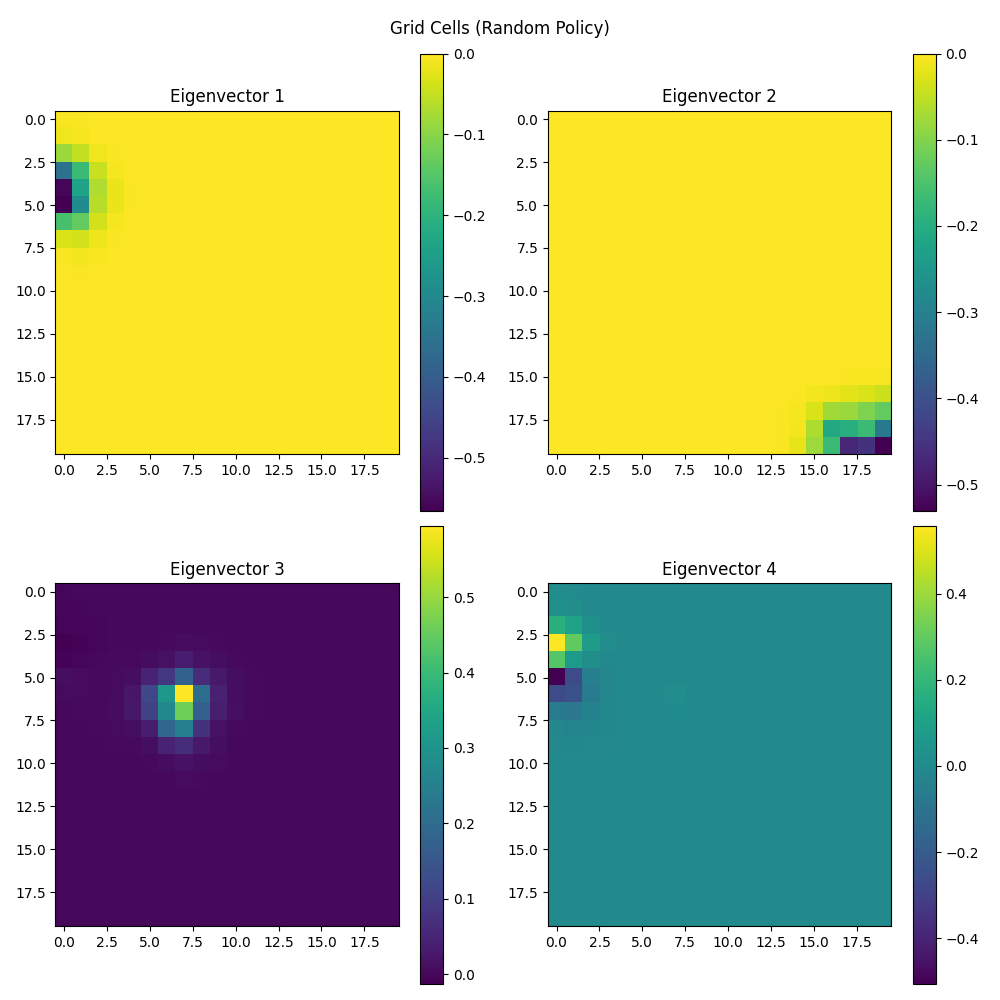
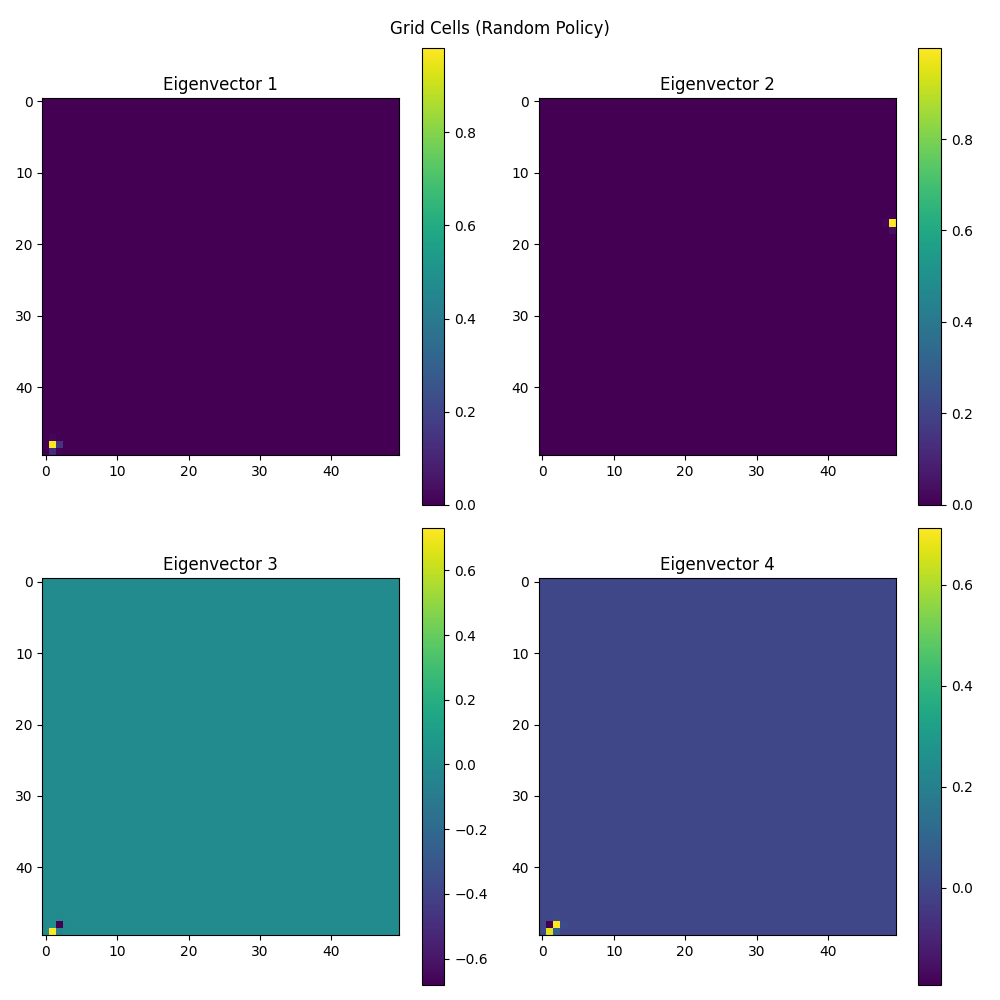
newest

diff --git a/SRGoalSlice.py b/SRGoalSlice.py
@@ -11,7 +11,7 @@ from sklearn.decomposition import PCA #For grid cell plotting
 cmap = plt.cm.viridis
 cmap.set_bad(color='white')
 
-grid_size = 50
+grid_size = 20
 pattern = "empty"
 env = SimpleGrid(grid_size, block_pattern=pattern, obs_mode="index")
 env.reset(agent_pos=[0, 0], goal_pos=[0, grid_size - 1])
@@ -365,7 +365,7 @@ def get_goal_sequence(total_episodes, goal_size):
 # parameters for training
 train_episode_length = 60
 test_episode_length = 60
-episodes = 1000000
+episodes = 10000
 gamma = 0.8
 lr = 0.01
 
@@ -416,7 +416,7 @@ remaining_episodes = episodes % len(goals_with_targets)
 np.random.shuffle(goals_with_targets)
 
 # Training loop for random policy
-for episode in range(episodes):
+for episode in tqdm(range(episodes), desc="Training with Random Policy"):
     goal_index = goals_with_targets[episode % len(goals_with_targets)]
     
     epsilon = 1  # Set epsilon to 1 for random policy
@@ -497,7 +497,7 @@ if not os.path.exists('videos'):
 
 epsilon = initial_train_epsilon
 
-for episode in range(episodes):
+for episode in tqdm(range(episodes), desc="Training with Epsilon-Greedy Policy"):
     goal_index = goals_with_targets[episode % len(goals_with_targets)]
 
     agent_start = random_valid_position(env)
